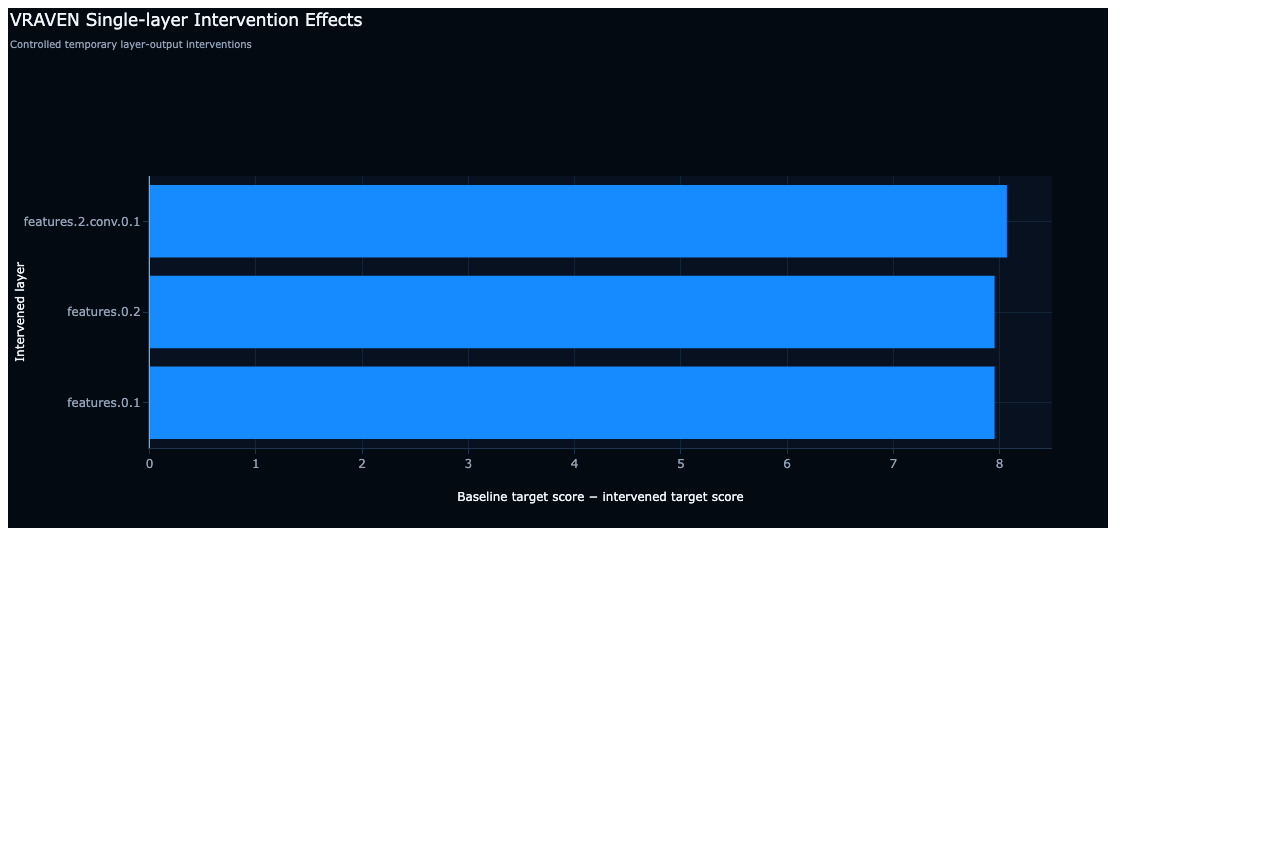
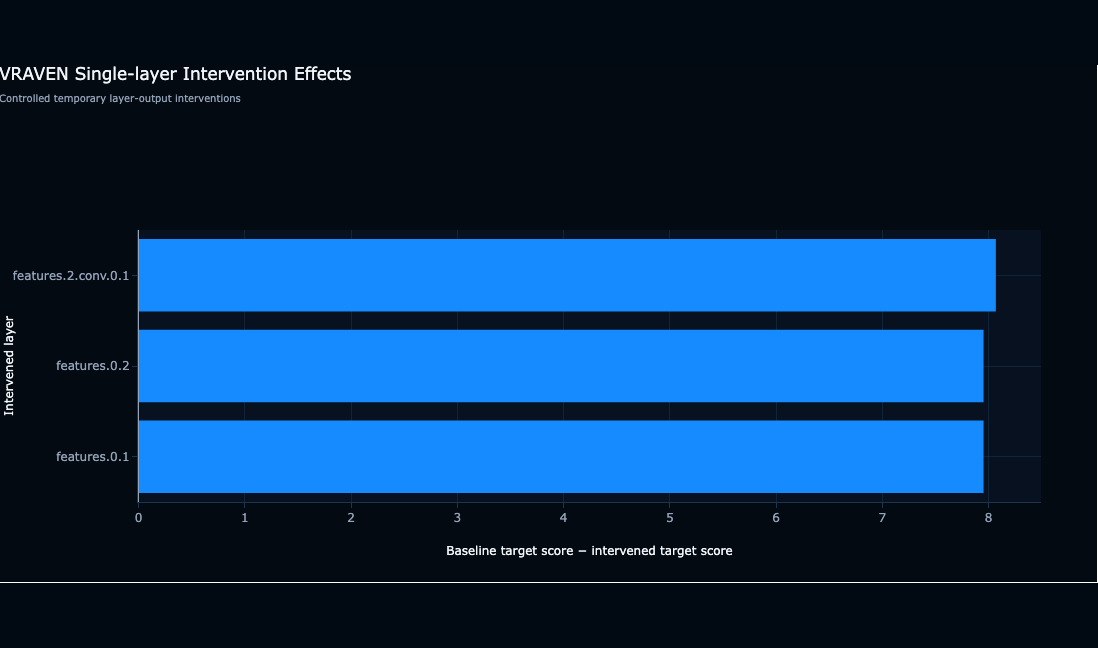
fix: fill walkthrough chart cards

diff --git a/vraven/assets/styles.css b/vraven/assets/styles.css
@@ -159,7 +159,7 @@ footer { margin-top: 70px; color: #727887; font-size: .8rem; }
 .family .count { position: absolute; right: 18px; bottom: 6px; color: rgba(141,234,255,.09); font: 900 4.8rem/1 ui-monospace, monospace; }
 .gallery-grid { display: grid; grid-template-columns: repeat(2, minmax(0, 1fr)); gap: 16px; }
 .shot { overflow: hidden; border: 1px solid var(--line); border-radius: 17px; background: var(--panel); }
-.shot img { display: block; width: 100%; height: 245px; object-fit: cover; object-position: top left; background: #050b12; }
+.shot img { display: block; width: 100%; height: auto; aspect-ratio: auto; object-fit: contain; object-position: center; background: #050b12; }
 .shot-body { padding: 16px 18px 18px; }
 .shot-body strong { display: block; font-size: 1rem; }
 .shot-body span { color: var(--muted); font-size: .8rem; }
@@ -1310,7 +1310,8 @@ code.language-shell .tok-variable { color: #c792ea; }
   .content, .content.narrow { width: min(calc(100% - 30px), 680px); padding-top: 34px; padding-bottom: 68px; }
   .metrics { grid-template-columns: 1fr 1fr; }
   .grid, .family-grid, .gallery-grid, .split { grid-template-columns: 1fr; }
-  .case-hero figure img, .shot img { height: auto; aspect-ratio: 16 / 10; }
+  .case-hero figure img { height: auto; aspect-ratio: 16 / 10; }
+  .shot img { height: auto; aspect-ratio: auto; }
   pre { padding: 17px 14px; font-size: .88rem; }
   .copy { position: sticky; float: right; margin: -8px -5px 8px 10px; min-height: 34px; }
   .command-table { min-width: 680px; }
@@ -1359,4 +1360,3 @@ code.language-shell .tok-variable { color: #c792ea; }
   .output-summary { grid-template-columns: auto 1fr; }
   .output-family li a, .api-row { grid-template-columns: 1fr; gap: 5px; }
 }
-
